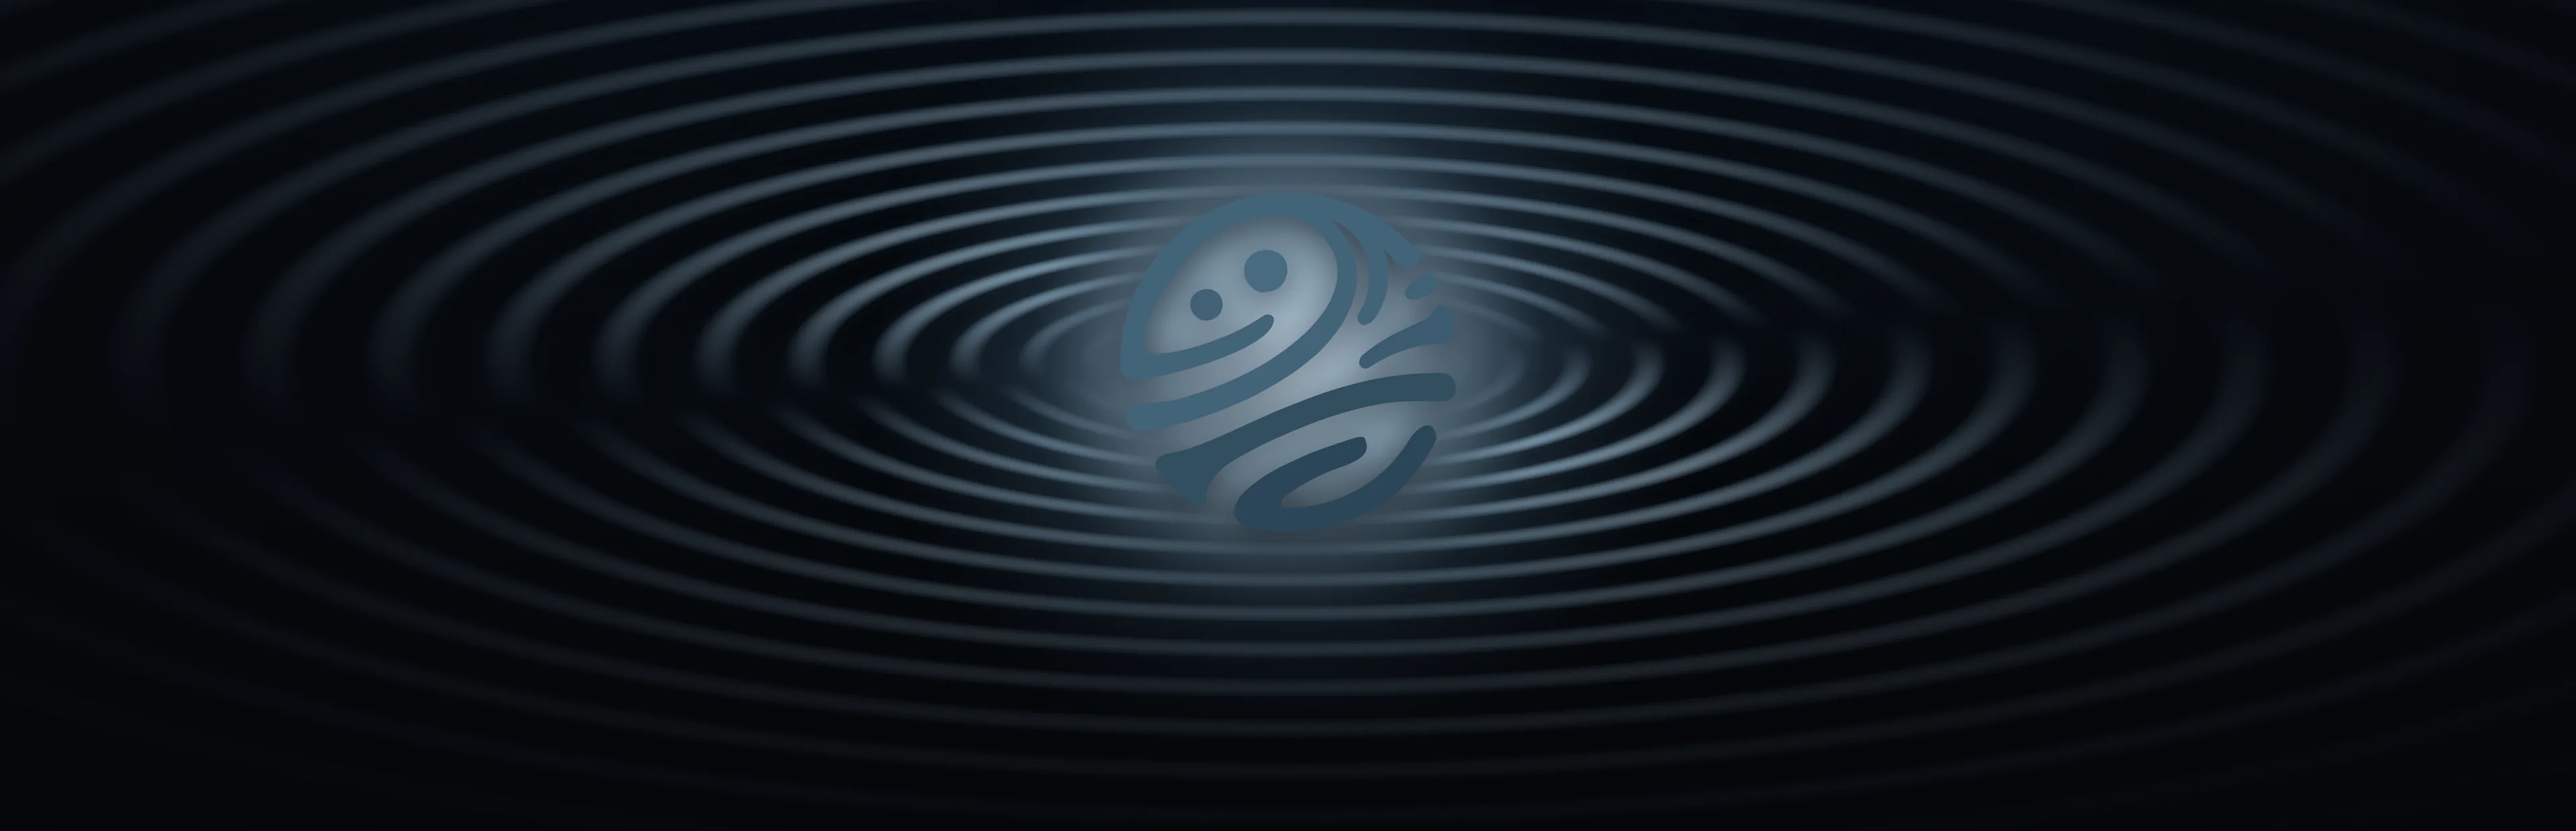
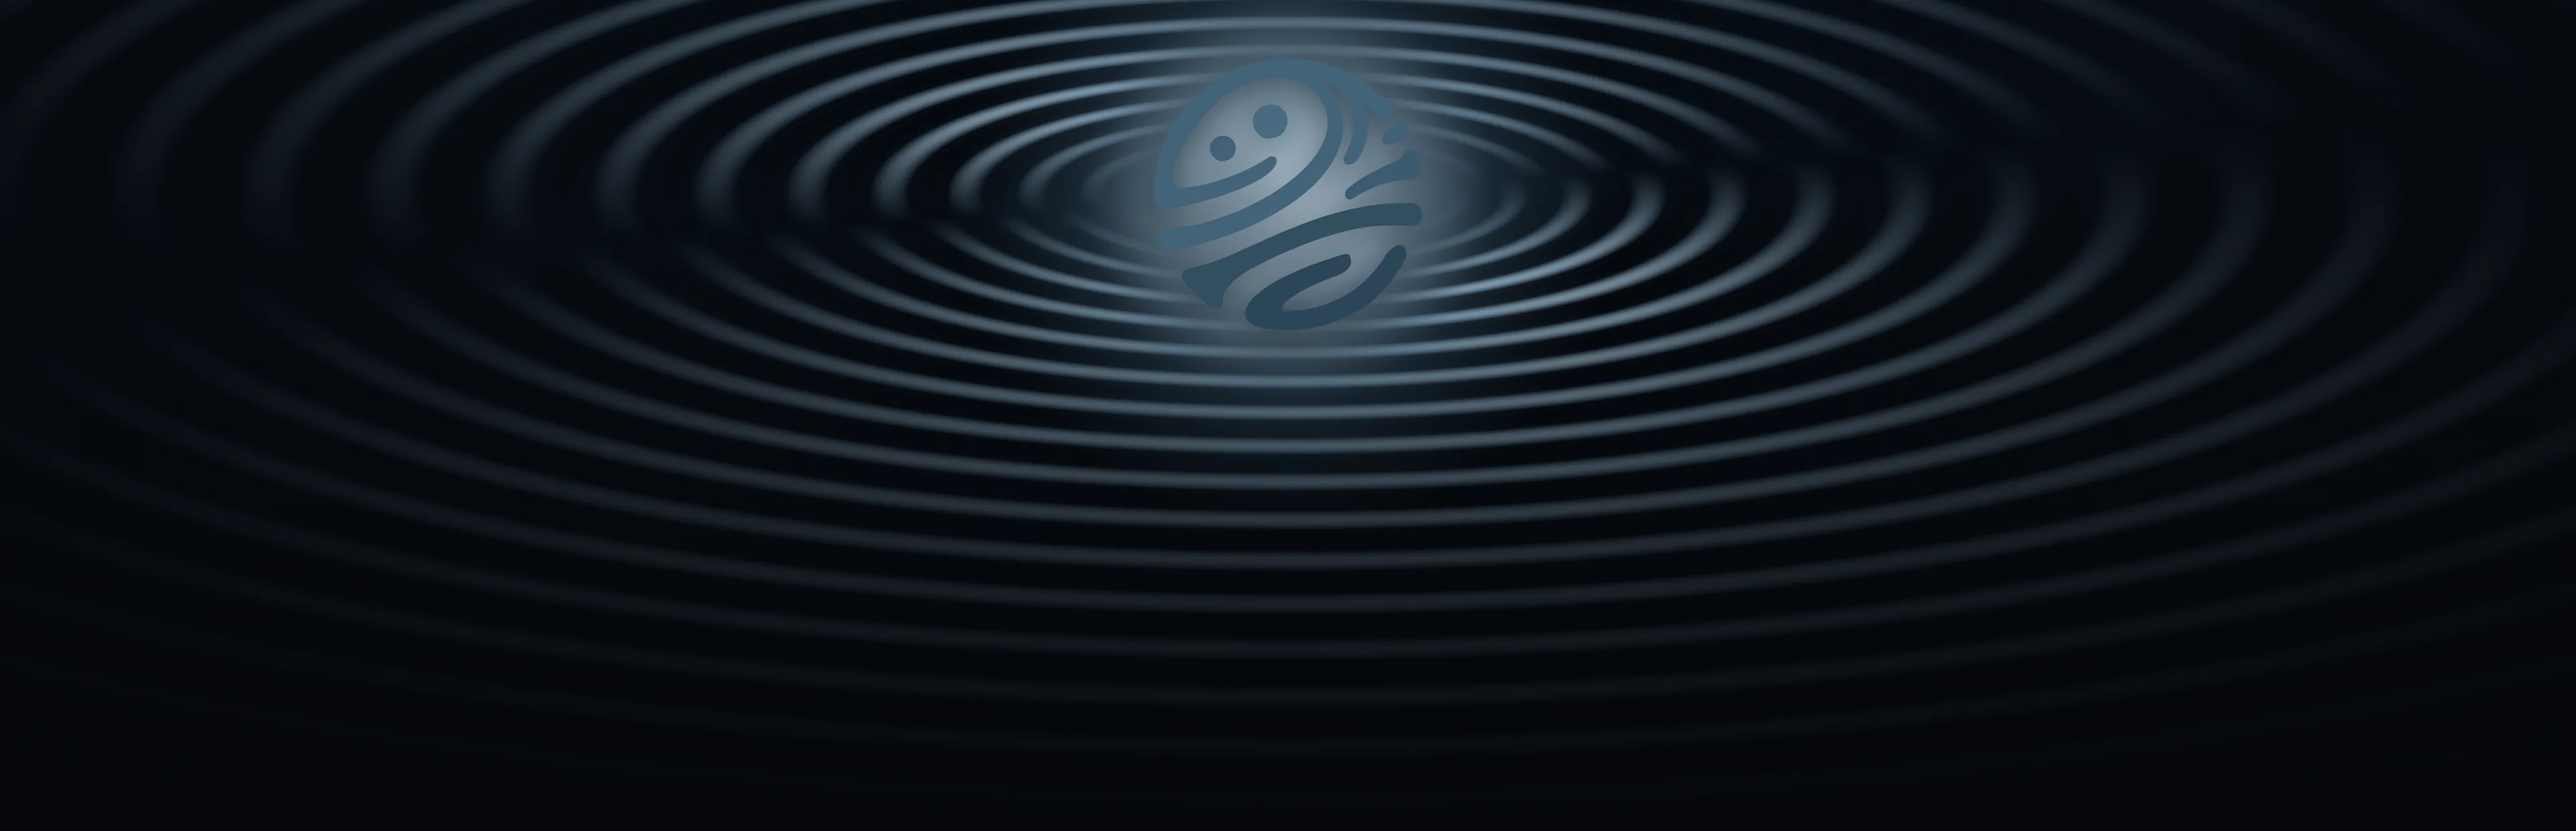
fix: 🐛the store background's mark sits above the name on fkn.app

diff --git a/scripts/store-art/art.html b/scripts/store-art/art.html
@@ -31,8 +31,9 @@ const query = new URLSearchParams(location.search)
 const direction = query.get('direction') ?? 'ripples'
 const cover = query.get('format') === 'cover'
 const [W, H] = cover ? [600, 900] : [3840, 1240]
-// the mark sits in the middle third, a little above centre as stub's does, and the cover's leaves room for the name
-const [mx, my, size] = cover ? [300, 360, 290] : [1920, 540, 500]
+// fkn.app's hero is at most 400px tall and holds the background at `object-position: 50% 10%`, with the name's
+// scrim over its lower half, so the mark sits in the top quarter as stub's does; the cover's leaves room for the name
+const [mx, my, size] = cover ? [300, 360, 290] : [1920, 290, 400]
 
 const frame = document.querySelector('.frame')
 frame.style.width = `${W}px`
